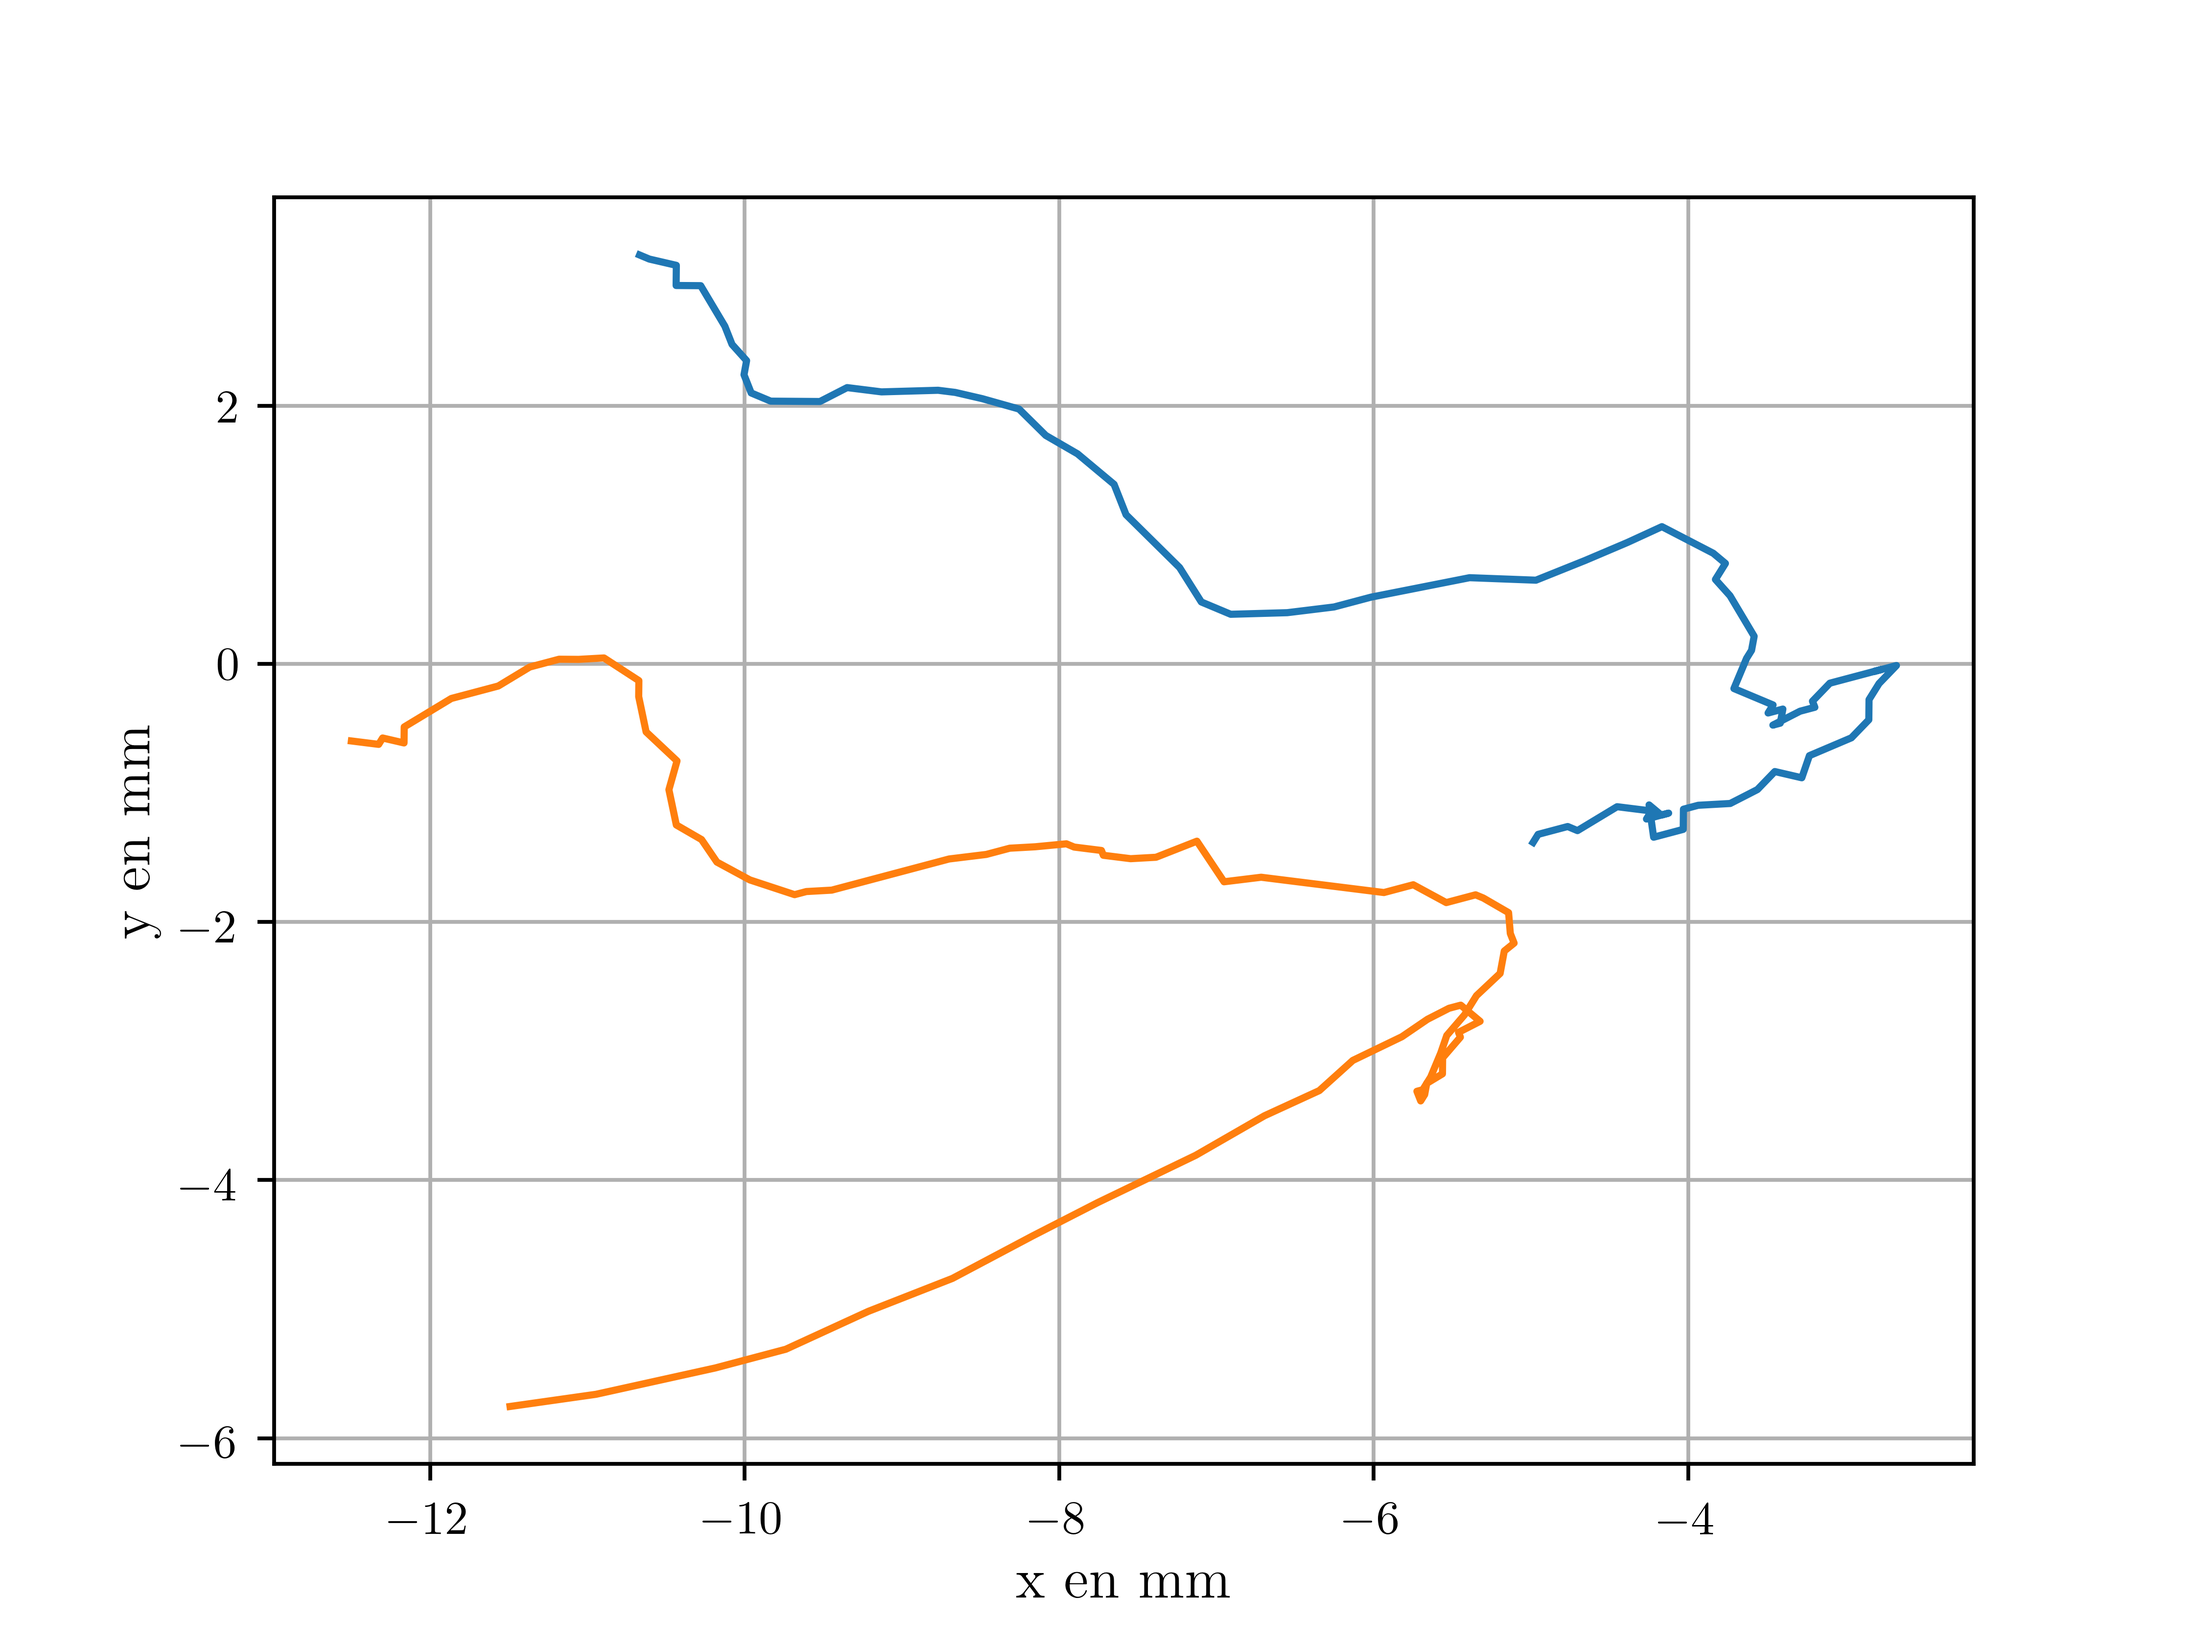
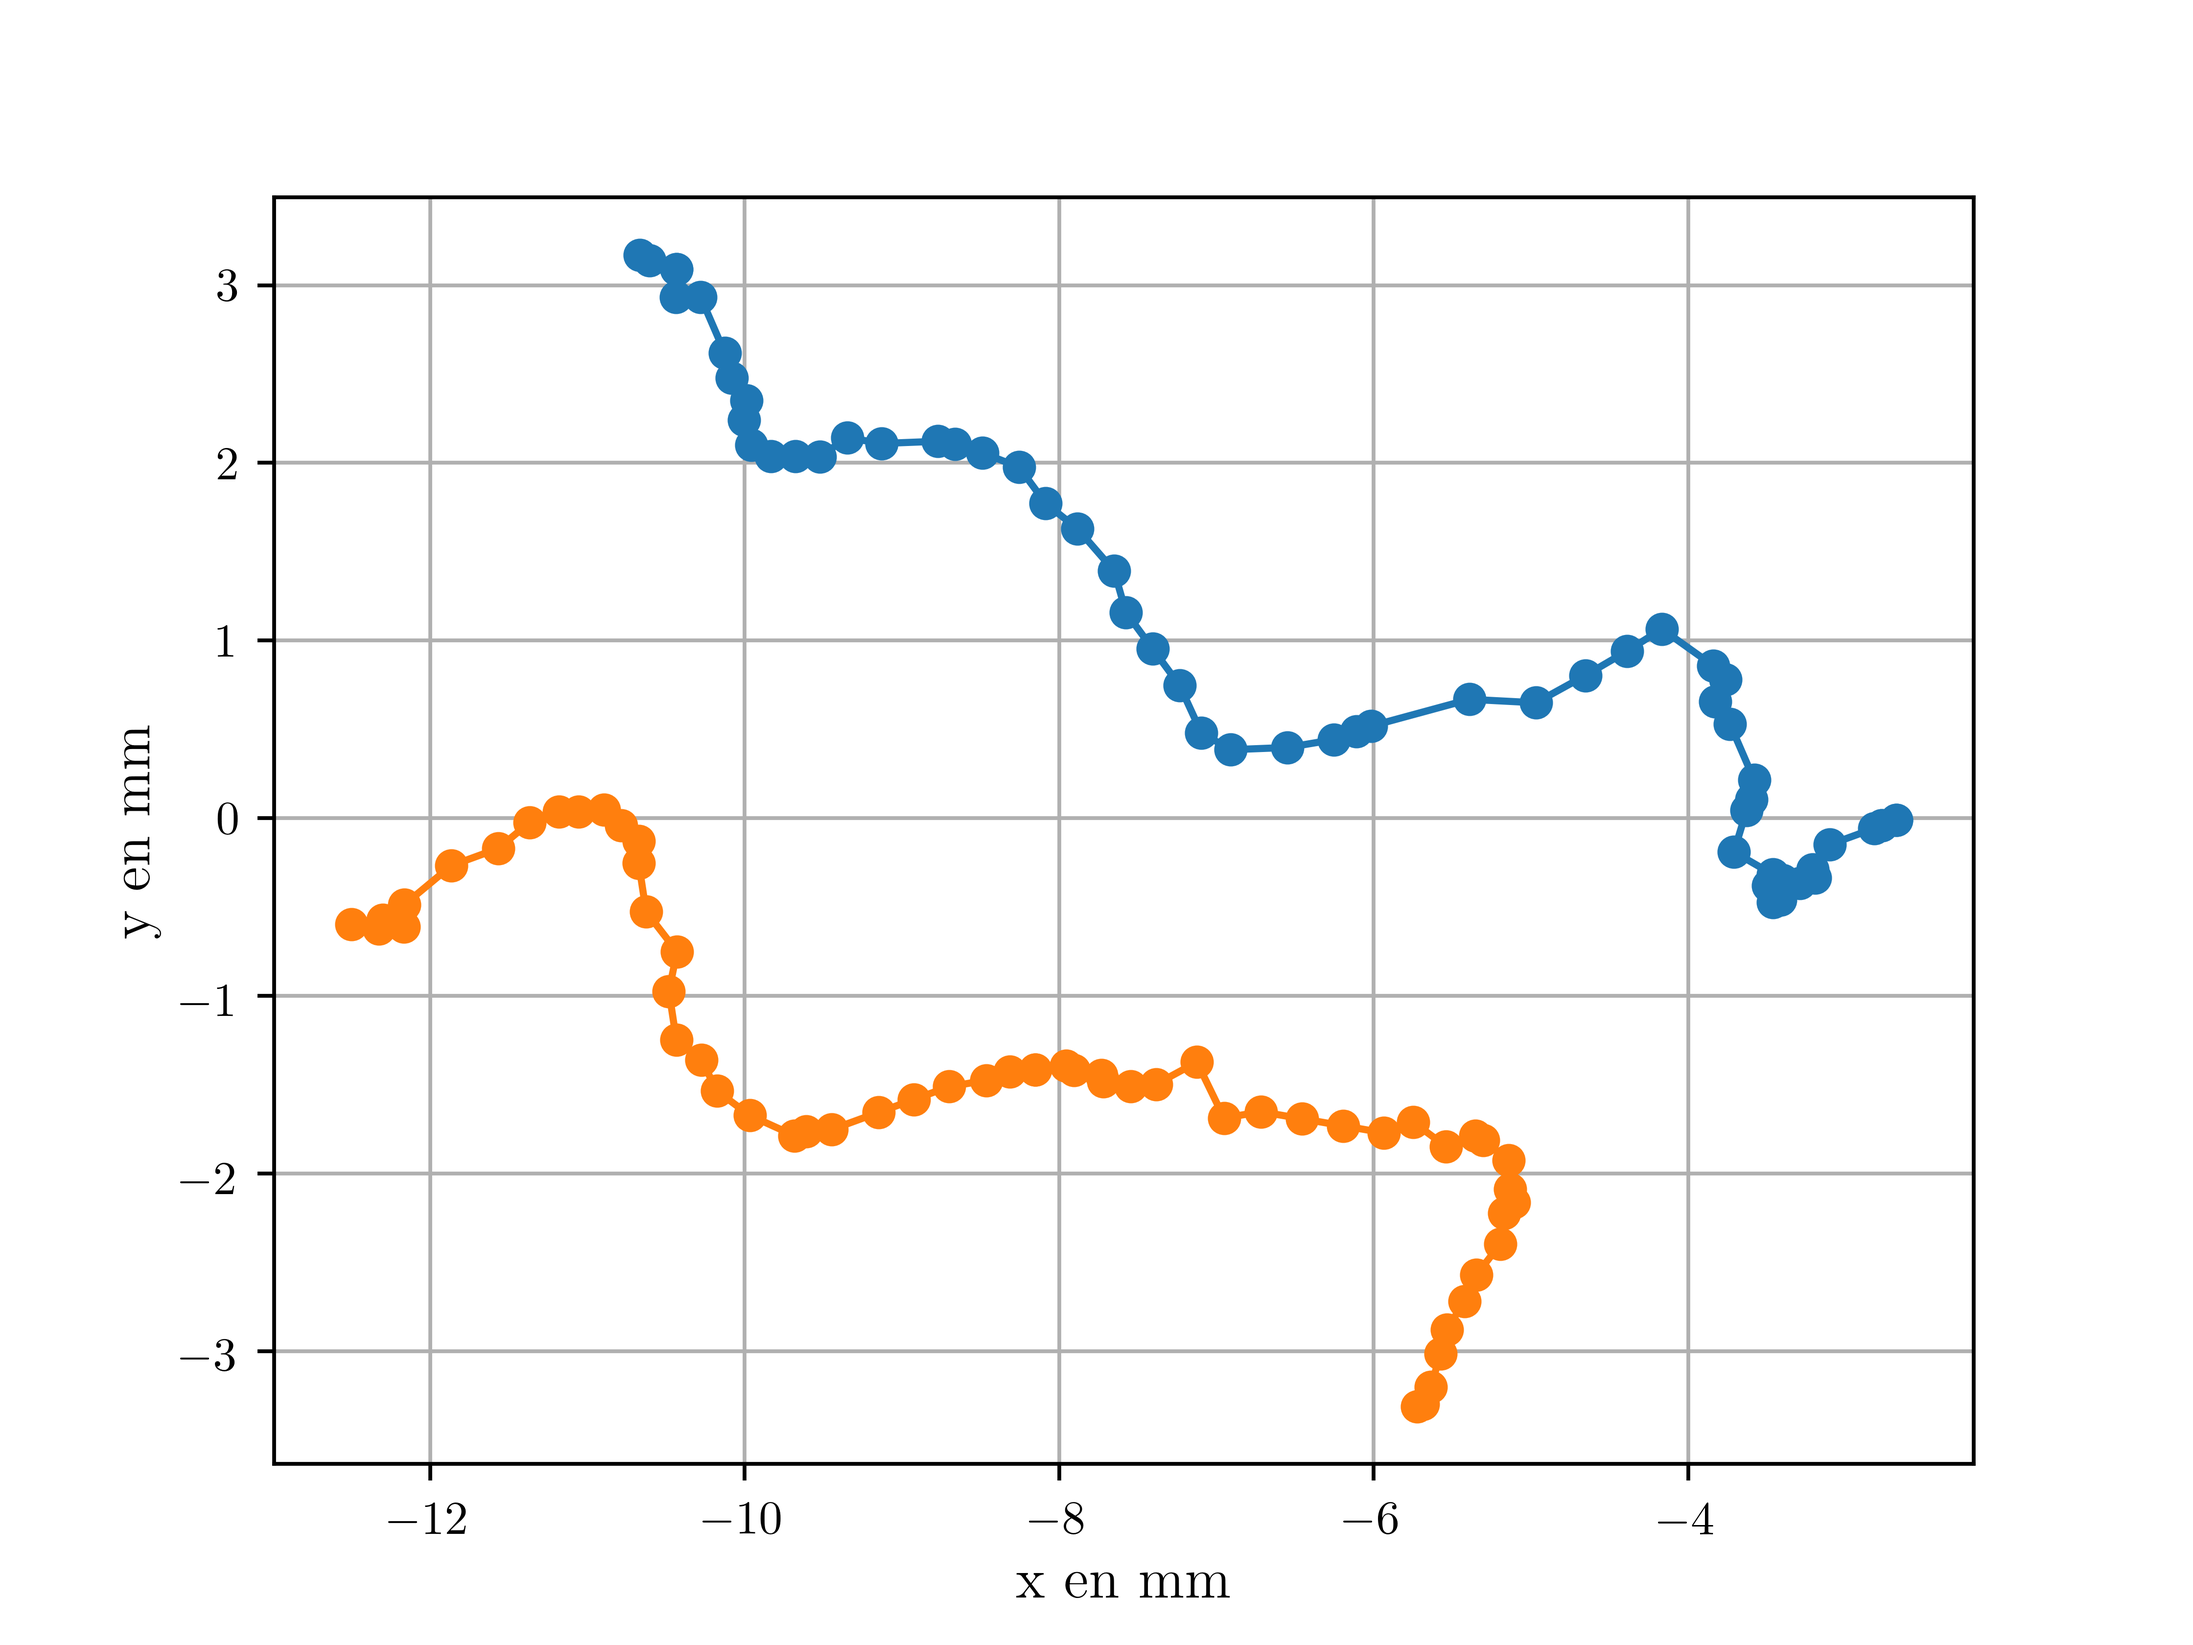
lun. 8 avril 10:23

diff --git a/Data/graphs/Traj.py b/Data/graphs/Traj.py
@@ -33,18 +33,20 @@ grid = plt.grid;
 
 Data = load("./953G1");
 
-X	= Data[:,1];
-Y	= Data[:,2];
+start = 25;
 
-plot(X,Y);
+X1	= Data[start:,1];
+Y1	= Data[start:,2];
+
+plot(X1,Y1,'-o');
 
 
 Data = load("./953G2");
 
-X	= Data[:,1];
-Y	= Data[:,2];
+X2	= Data[start:,1];
+Y2	= Data[start:,2];
 
-plot(X,Y);
+plot(X2,Y2,'-o');
 
 set_xlabel(r'x en mm', fontsize=12);
 set_ylabel(r'y en mm', fontsize=12);
